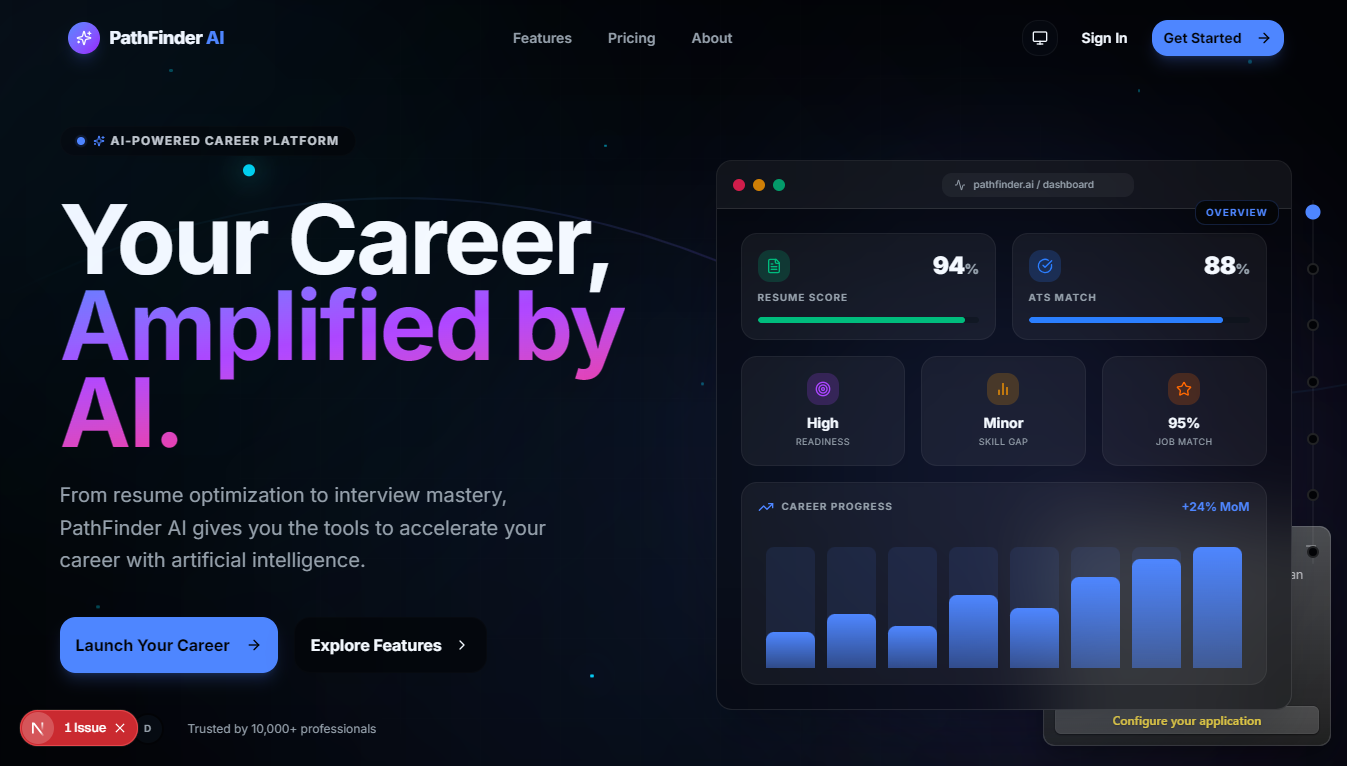
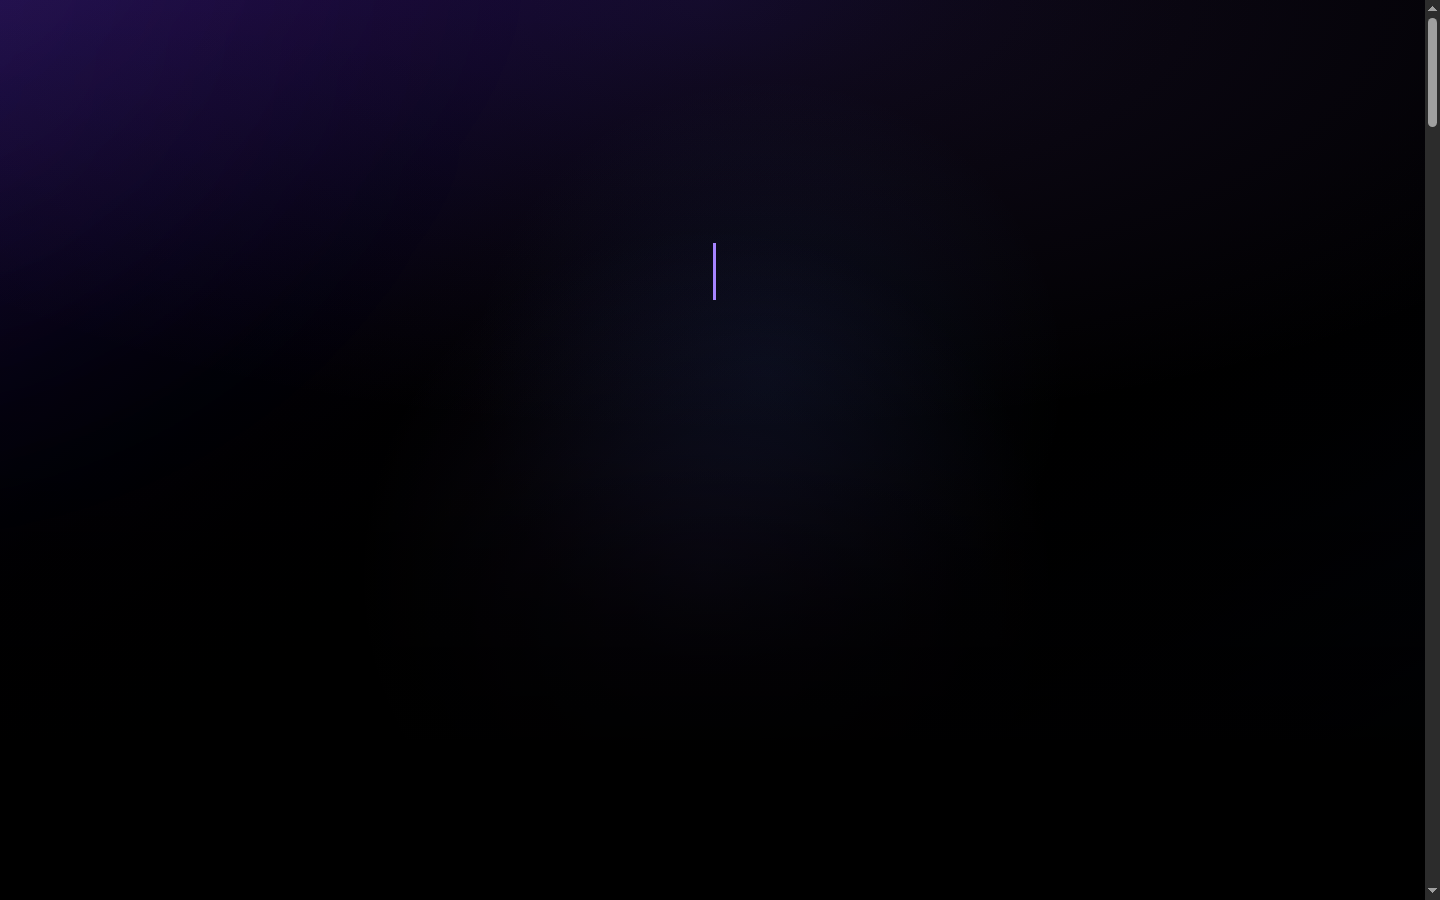
docs: rewrite README and capture fresh landing screenshot
- Update Live Demo URL to pathfinder-ai-auta.vercel.app
- Add interactive clickable TOC with anchor links
- Add collapsible <details> sections for features, tech stack,
  setup, env vars, deployment, UI, performance, contributing, Discord
- Add Live Demo badge in header
- Capture fresh 1440x900 landing page screenshot from live site

diff --git a/README.md b/README.md
@@ -14,8 +14,8 @@
 <br/>
 
 <p align="center">
-  <a href="https://pathfinder-ai.vercel.app">
-    <img src="https://img.shields.io/badge/🌐_Live_Demo-pathfinder--ai.vercel.app-000000?style=for-the-badge" alt="Live Demo" />
+  <a href="https://pathfinder-ai-auta.vercel.app">
+    <img src="https://img.shields.io/badge/🌐_Live_Demo-pathfinder--ai--auta.vercel.app-000000?style=for-the-badge" alt="Live Demo" />
   </a>
   <a href="https://nextjs.org">
     <img src="https://img.shields.io/badge/Next.js_15-000000?style=for-the-badge&logo=nextdotjs" alt="Next.js" />
@@ -57,8 +57,8 @@
 <br/>
 
 <p align="center">
-  <a href="https://pathfinder-ai.vercel.app"><strong>🚀 Try It Live</strong></a> &nbsp;·&nbsp;
-  <a href="#-getting-started"><strong>📖 Docs</strong></a> &nbsp;·&nbsp;
+  <a href="https://pathfinder-ai-auta.vercel.app"><strong>🚀 Try It Live</strong></a> &nbsp;·&nbsp;
+  <a href="#-table-of-contents"><strong>📖 Docs</strong></a> &nbsp;·&nbsp;
   <a href="#-contributing"><strong>🤝 Contribute</strong></a> &nbsp;·&nbsp;
   <a href="https://github.com/harshdwivediiiii/pathfinder-ai/issues/new?template=bug_report.md"><strong>🐛 Report Bug</strong></a> &nbsp;·&nbsp;
   <a href="https://github.com/harshdwivediiiii/pathfinder-ai/issues/new?template=feature_request.md"><strong>💡 Request Feature</strong></a>
@@ -330,7 +330,8 @@ pathfinder-ai/
 
 ## 🚀 Getting Started
 
-### Prerequisites
+<details>
+<summary><b>Prerequisites</b></summary>
 
 | Tool | Version | Link |
 |---|---|---|
@@ -338,16 +339,20 @@ pathfinder-ai/
 | npm / pnpm | `v9+` / `v8+` | Bundled with Node |
 | PostgreSQL | Any recent | [Neon](https://neon.tech) · [Supabase](https://supabase.com) · [Railway](https://railway.app) |
 
----
+</details>
 
-### 1. Clone the Repository
+<details>
+<summary><b>1. Clone the Repository</b></summary>
 
 ```bash
 git clone https://github.com/harshdwivediiiii/pathfinder-ai.git
 cd pathfinder-ai
 ```
 
-### 2. Install Dependencies
+</details>
+
+<details>
+<summary><b>2. Install Dependencies</b></summary>
 
 ```bash
 npm install
@@ -355,7 +360,10 @@ npm install
 pnpm install
 ```
 
-### 3. Configure Environment Variables
+</details>
+
+<details>
+<summary><b>3. Configure Environment Variables</b></summary>
 
 ```bash
 cp .env.example .env.local
@@ -363,7 +371,10 @@ cp .env.example .env.local
 
 Fill in your values — see the [Environment Variables](#-environment-variables) section for a full reference.
 
-### 4. Set Up the Database
+</details>
+
+<details>
+<summary><b>4. Set Up the Database</b></summary>
 
 ```bash
 npx prisma generate
@@ -373,7 +384,10 @@ npx prisma migrate dev --name init
 npx prisma db seed
 ```
 
-### 5. Start the Development Server
+</details>
+
+<details>
+<summary><b>5. Start the Development Server</b></summary>
 
 ```bash
 npm run dev
@@ -385,9 +399,10 @@ Open [http://localhost:3000](http://localhost:3000). You're in.
 
 > **⚠️ Development Authentication Bypass:** For local development without Clerk setup, you can set `SKIP_AUTH=true` to bypass authentication. This is ONLY allowed on localhost in development mode and will throw an error in production or on non-localhost hosts. See the [Environment Variables](#-environment-variables) section for details.
 
----
+</details>
 
-### 6. Start the Inngest Dev Server (required for background jobs)
+<details>
+<summary><b>6. Start the Inngest Dev Server (required for background jobs)</b></summary>
 
 In a **second terminal**, run:
 
@@ -398,6 +413,10 @@ npx inngest-cli@latest dev
 > ⚠️ Without this, `generateIndustryInsights` and all background functions
 > will silently never fire — no error, no warning. This is a required step.
 > Get your production keys from [app.inngest.com](https://app.inngest.com).
+
+</details>
+
+---
 
 ## 🔑 Environment Variables
 
@@ -457,6 +476,9 @@ NEXT_PUBLIC_APP_URL=http://localhost:3000
 SKIP_AUTH=false
 ```
 
+<details>
+<summary><b>Full Environment Variables Reference</b></summary>
+
 > **Rate limiting in production:** Redis is required for consistent multi-instance throttling. In production, set `REDIS_URL` and keep `RATE_LIMIT_STORE=auto` (or set `RATE_LIMIT_STORE=redis`).
 
 | Variable | Required | Description |
@@ -475,6 +497,8 @@ SKIP_AUTH=false
 | `RATE_LIMIT_STORE` | ⚪ | Rate limiter driver (`auto` or `redis`) |
 | `NEXT_PUBLIC_APP_URL` | ⚪ | Base URL used in production builds |
 | `SKIP_AUTH` | ⚪ | Development-only auth bypass (NEVER use in production) |
+
+</details>
 
 ---
 
@@ -495,6 +519,9 @@ SKIP_AUTH=false
 ---
 
 ## 🔐 Authentication Setup
+
+<details>
+<summary><b>Clerk Authentication Configuration</b></summary>
 
 PathFinder AI uses **[Clerk](https://clerk.dev)** — handling sign-up, sign-in, session management, and user profiles with zero boilerplate and enterprise-grade security.
 
@@ -518,9 +545,14 @@ PathFinder AI uses **[Clerk](https://clerk.dev)** — handling sign-up, sign-in,
 
 All routes under `/(main)/` require authentication. Unauthenticated users are redirected to `/sign-in` automatically via Clerk middleware.
 
+</details>
+
 ---
 
 ## 🗄️ Database Setup
+
+<details>
+<summary><b>PostgreSQL & Prisma Configuration</b></summary>
 
 PathFinder AI uses **PostgreSQL** with **Prisma ORM** for all data operations — type-safe from schema to query.
 
@@ -552,6 +584,8 @@ npx prisma migrate dev --name describe_your_change
 npx prisma generate
 ```
 
+</details>
+
 ---
 
 ## ☁️ Deployment
@@ -562,7 +596,7 @@ PathFinder AI is optimized for **[Vercel](https://vercel.com)** deployment out o
 
 [![Deploy with Vercel](https://vercel.com/button)](https://vercel.com/new/clone?repository-url=https://github.com/harshdwivediiiii/pathfinder-ai)
 
-> 🌐 **Live Demo:** [pathfinder-ai.vercel.app](https://pathfinder-ai.vercel.app)
+> 🌐 **Live Demo:** [pathfinder-ai-auta.vercel.app](https://pathfinder-ai-auta.vercel.app)
 
 ### Manual Deploy
 
@@ -571,7 +605,8 @@ PathFinder AI is optimized for **[Vercel](https://vercel.com)** deployment out o
 3. Add all env variables from `.env.example` in Vercel project settings
 4. Hit deploy — Vercel auto-detects Next.js and configures the build
 
-### Pre-Launch Checklist
+<details>
+<summary><b>Pre-Launch Checklist</b></summary>
 
 - [ ] All environment variables added to Vercel project settings
 - [ ] `DATABASE_URL` points to a production PostgreSQL instance
@@ -579,6 +614,8 @@ PathFinder AI is optimized for **[Vercel](https://vercel.com)** deployment out o
 - [ ] Clerk configured with production keys + correct redirect URLs
 - [ ] `NEXT_PUBLIC_APP_URL` set to your production domain
 - [ ] Custom domain configured (optional but recommended)
+
+</details>
 
 ### Run Migrations in Production
 
@@ -589,6 +626,9 @@ DATABASE_URL="your_prod_db_url" npx prisma migrate deploy
 ---
 
 ## 🎨 UI/UX Highlights
+
+<details>
+<summary><b>Design System & Animations</b></summary>
 
 PathFinder AI ships with a premium, production-grade interface designed for clarity and delight — not just functionality.
 
@@ -612,9 +652,14 @@ Built on **ShadCN UI** primitives with a custom TailwindCSS theme:
 - Client Components isolated to interactive UI islands
 - `<Suspense>` boundaries with meaningful, contextual loading states
 
+</details>
+
 ---
 
 ## ⚡ Performance
+
+<details>
+<summary><b>Optimization Details</b></summary>
 
 Performance is a first-class concern, not an afterthought.
 
@@ -636,6 +681,8 @@ Performance is a first-class concern, not an afterthought.
 ### Caching Strategy
 - `fetch` cache for stable AI-generated content
 - Per-type revalidation (insights refreshed more aggressively than user-generated content)
+
+</details>
 
 ---
 
@@ -676,7 +723,8 @@ PathFinder AI has an active Discord community where contributors, mentors, maint
   Join our Discord server for discussions, issue guidance, feature brainstorming, announcements, mentorship, and GSSoC'26 collaboration.
 </p>
 
-### Why Join?
+<details>
+<summary><b>Why Join?</b></summary>
 
 - 🤝 Connect with contributors and mentors
 - 🚀 Get help with issues and pull requests
@@ -691,13 +739,16 @@ PathFinder AI has an active Discord community where contributors, mentors, maint
 
 We encourage all contributors and mentors to join before starting work on issues and pull requests.
 
+</details>
+
 ---
 
 ## 🤝 Contributing
 
 PathFinder AI is actively participating in **GirlScript Summer of Code 2026 (GSSoC'26)** ❤️ and we warmly welcome all contributors — first-timers and veterans alike.
 
-### Quick Start
+<details>
+<summary><b>Quick Start Guide</b></summary>
 
 ```bash
 # 1. Fork the repo, then clone your fork
@@ -714,7 +765,10 @@ git commit -m "feat: add resume analytics dashboard"
 git push origin feature/your-feature-name
 ```
 
-### Commit Message Format
+</details>
+
+<details>
+<summary><b>Commit Message Format</b></summary>
 
 ```
 feat:      new feature
@@ -727,7 +781,10 @@ test:      adding or updating tests
 chore:     build process or tooling
 ```
 
-### PR Checklist
+</details>
+
+<details>
+<summary><b>PR Checklist</b></summary>
 
 - [ ] Feature works correctly and tested locally
 - [ ] UI changes are responsive across all screen sizes
@@ -737,7 +794,10 @@ chore:     build process or tooling
 - [ ] Screenshots or screen recording attached for UI changes
 - [ ] Branch synced with latest `main`, all conflicts resolved
 
-### Getting Assigned (GSSoC'26)
+</details>
+
+<details>
+<summary><b>Getting Assigned (GSSoC'26)</b></summary>
 
 1. Browse [open issues](https://github.com/harshdwivediiiii/pathfinder-ai/issues)
 2. Drop a comment describing your planned approach
@@ -777,6 +837,8 @@ Could you please assign it to me? Thanks!
 | `enhancement` | Feature additions |
 | `bug` | Something's broken |
 | `documentation` | Docs improvements |
+
+</details>
 
 ---
 